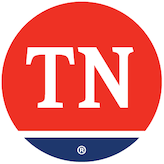
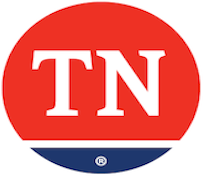
refactor(tn-court): Make court image responsive
Adjust size for now.

diff --git a/cl/opinion_page/templates/publish.html b/cl/opinion_page/templates/publish.html
@@ -36,7 +36,7 @@
     <div class="row">
       <div class="col-xs-1"></div>
       <div class="col-xs-2">
-        <img src="{{ STATIC_URL }}img/tn-court.png">
+        <img width=195 height=168 class="img-responsive" src="{{ STATIC_URL }}img/tn-court.png">
       </div>
       <div class="col-xs-8">
         <h1>
